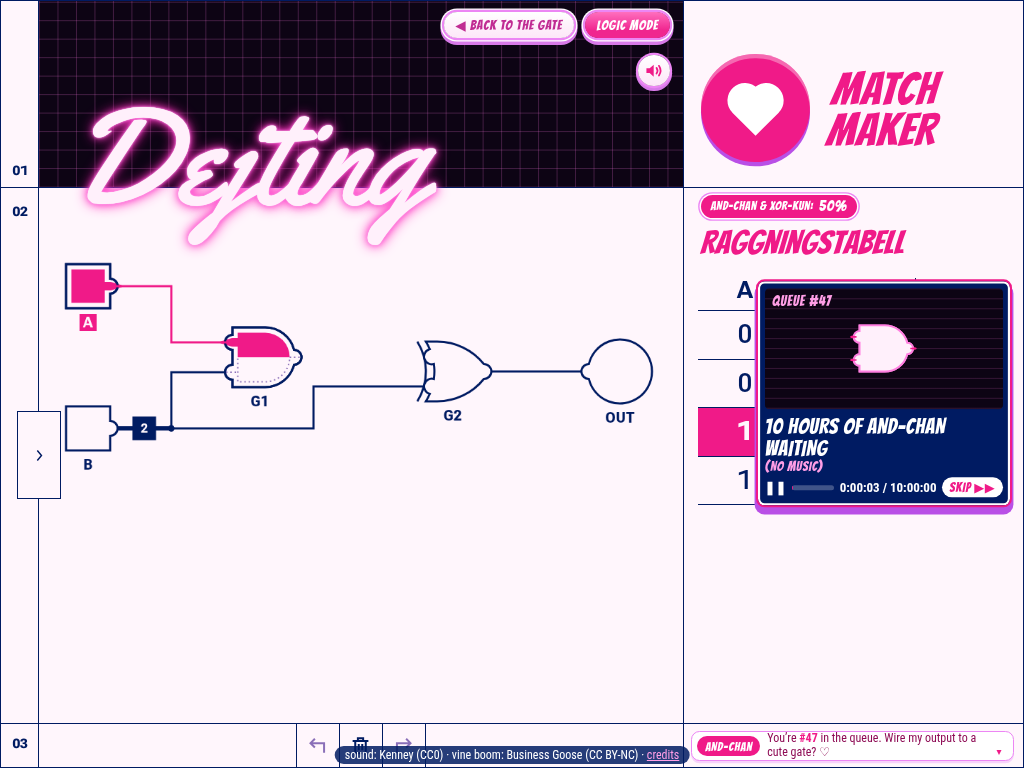
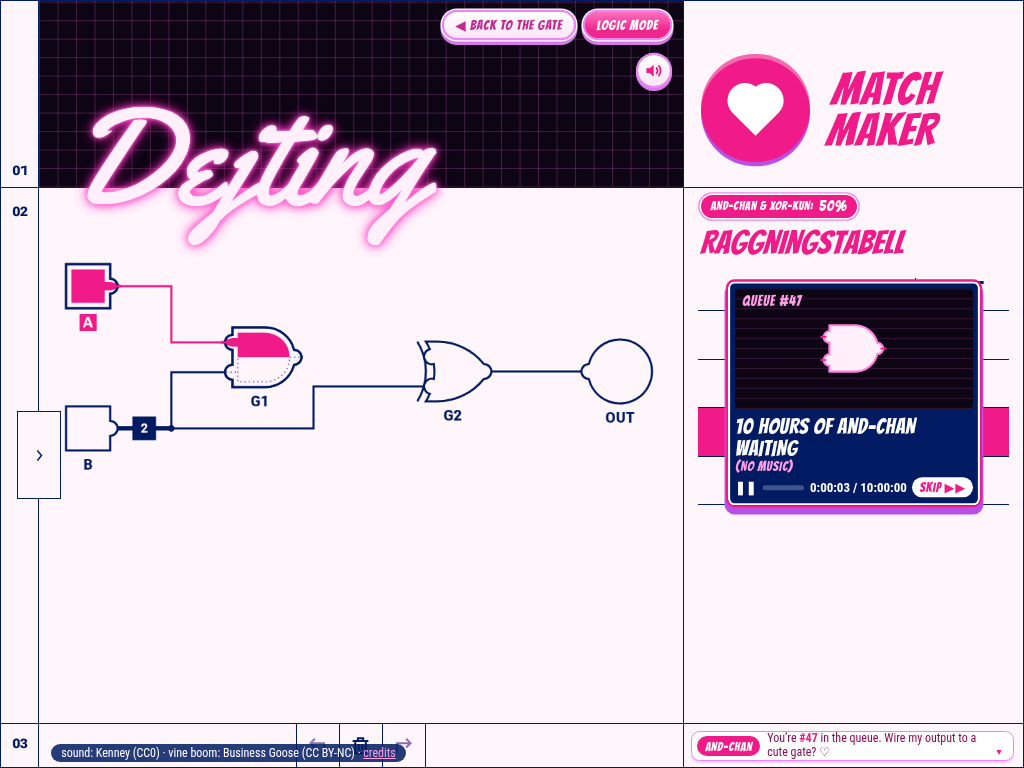
pit4/r3-2: K1 player docked + audio tryUnlock after ENTER, credits, LOG/REPORT, shots
Claude-Session: https://claude.ai/code/session_01MbPdze8rChHd7yWMKqzLQw

Changed region(s): [[0.6875, 0.3438, 1.0, 0.6875], [0.0312, 0.9688, 0.6875, 1.0], [0.7812, 0.4062, 0.9062, 0.5]]

diff --git a/src/date/h2/dock.css b/src/date/h2/dock.css
@@ -1,6 +1,7 @@
 /* h2 (pit4 r3-2), continue screen additions. --u here is next.css's px-scale unit. */
 /* g1 fix 6: the pull card (and the K1 player before it) dock over Raggningstabell; no veil, the circuit stays readable */
-.dj-dock { position: fixed; z-index: 50; right: 1.2vw; top: 50%; transform: translateY(-46%); pointer-events: none; }
+.dj-dock { position: fixed; z-index: 50; right: 0; width: 33.2vw; top: 50%; transform: translateY(-46%); display: grid; place-items: center; pointer-events: none; }
+.dj-dock .dj-player, .dj-dock .dj-card { max-width: 31vw; }
 .dj-dock > * { pointer-events: auto; }
 .dj-dock .dj-card { width: calc(330 * var(--u)); max-height: 84vh; padding: 0 calc(18 * var(--u)) calc(16 * var(--u)); }
 .dj-dock .dj-rar { margin: 0 calc(-18 * var(--u)); }
@@ -23,6 +24,6 @@
 .dj-time { font-variant-numeric: tabular-nums; }
 .dj-skip { font: 400 max(13px, calc(16 * var(--u)))/1 'Bangers', cursive; letter-spacing: .05em; color: var(--hot); background: #fff; border: 0; border-radius: 99px;
   padding: calc(5 * var(--u)) calc(10 * var(--u)); cursor: pointer; }
-.dj-credits { position: fixed; z-index: 40; left: 50%; bottom: 4px; transform: translateX(-50%); margin: 0; white-space: nowrap;
+.dj-credits { position: fixed; z-index: 40; left: 5vw; bottom: 6px; margin: 0; white-space: nowrap;
   font: 400 12px/1.2 'Roboto Condensed', sans-serif; color: #fff; background: rgba(0, 27, 98, .85); padding: 2px 10px; border-radius: 99px; }
 .dj-credits a { color: #ff9ee6; }

diff --git a/src/date/h2/next.jsx b/src/date/h2/next.jsx
@@ -21,7 +21,7 @@ import '@fontsource/roboto-condensed/700.css';
 import App from '../../App.jsx';
 import { Shape, GATE_GEOM } from '../../nodes/index.jsx';
 import { compat } from '../compat.js';
-import { play, isMuted, setMuted, onMute } from '../sfx.js';
+import { play, isMuted, setMuted, onMute, tryUnlock } from '../sfx.js';
 import './next.css';
 import './dock.css';
 
@@ -80,6 +80,7 @@ const hms = (t) => `${Math.floor(t / 3600)}:${String(Math.floor(t / 60) % 60).pa
 function Player({ onDone }) {
   const [t, setT] = useState(0);
   const at = useRef(4 + Math.floor(Math.random() * 6)); // boom at a random 4-9 s
+  useEffect(tryUnlock, []);
   useEffect(() => { const k = setInterval(() => setT((n) => n + 1), 1000); return () => clearInterval(k); }, []);
   useEffect(() => { if (t === at.current) { play('boom', { gap: 0, vol: 0.55 }); const k = setTimeout(onDone, 900); return () => clearTimeout(k); } }, [t]);
   const boomed = t >= at.current;

diff --git a/src/date/sfx.js b/src/date/sfx.js
@@ -26,6 +26,12 @@ function load(f) {
 function unlock() {
   unlocked = true;
   try { ctx = new AudioContext(); Object.values(FAMILIES).flat().forEach(load); } catch { ctx = null; } removeEventListener('pointerdown', unlock, true); removeEventListener('keydown', unlock, true); }
+// h2: after ENTER (a same-origin click) Chrome lets a fresh page start audio without a new gesture. Try it; if the
+// context comes up 'running', unlock now so the K1 boom can land even if the viewer never touches the player.
+export function tryUnlock() {
+  if (unlocked) return;
+  try { const c = new AudioContext(); if (c.state === 'running') { ctx = c; unlocked = true; Object.values(FAMILIES).flat().forEach(load); } else c.close(); } catch { /* no audio */ }
+}
 addEventListener('pointerdown', unlock, true);
 addEventListener('keydown', unlock, true);
 

diff --git a/research/pit4/pit4-r3-2/LOG.md b/research/pit4/pit4-r3-2/LOG.md
@@ -1,0 +1,7 @@
+# pit4/r3-2 (h2) log
+- 2026-09-27 · run 3. Read IMPL (shock pool K1-K8, reduced-motion HARD CONSTRAINT), VERDICT-r2, sheet-r2, refs. Branched pit4/r3-2 off origin/pit4/r2-1 (g1). h2 = a copy of src/date/g1 as src/date/h2 (router `v=h2`), so g1 is untouched.
+- · g1 fixes: WARNING height-scaled max(8.8u, 15.3vh), with a 4:3 media rule (sprite column 15.5u, -.025em tracking) so it fits inside the panel at 1024; I'LL ALWAYS WAIT = solid #f01a88 Bangers 1.4x (glitch pseudo-layers removed); SSR band now reads "SSR ★★★★★ / OFFICE HOURS"; modal+sign trimmed (plate gap, textbox, choices); credits visible on &next=1 + mute tooltip; pull card docked over Raggningstabell with no veil.
+- · K1 call: the player only exists after ENTER, so it can't land in the gate's reduced-motion still. It is the &next=1 intro: a static player docked in the right column, "10 HOURS OF AND-CHAN WAITING (NO MUSIC)", ticking 0:00:00 / 10:00:00, silence, vine boom (Business Goose, CC BY-NC, credited) at random 4-9 s, then "NOW SERVING #47" and an instant cut to the SSR pull card. No motion used, so reduced motion is identical. SKIP button. The ONE gate surprise stays the SSR office-hours pull.
+- · sound: no ffmpeg in the container, so vine-boom.mp3 ships as-is (3.2 s, 129 KB); sfx.js loads names with an extension verbatim. Added tryUnlock(): after ENTER, Chrome lets the new page start audio, so the boom plays without a second gesture.
+- · first 1440 pass broke the sprite (a vh cap on the column squashed it); reverted to 17.5u and scoped the narrow column to 4:3.
+- · measured (Pillow, reduced-motion stills): WARNING pink cap .119 H (1440) / .117 H (1024); modal+sign .69 / .557 H (DOM); Dejting g ~13 px clear of WARNING at 1024 (zoom check); L/R 1.02; 0 page errors; no h-scroll. K1 check: timer ticks, boom 200 + decodes, pull card replaces the player by 10 s. test 131, build, e2e green.
